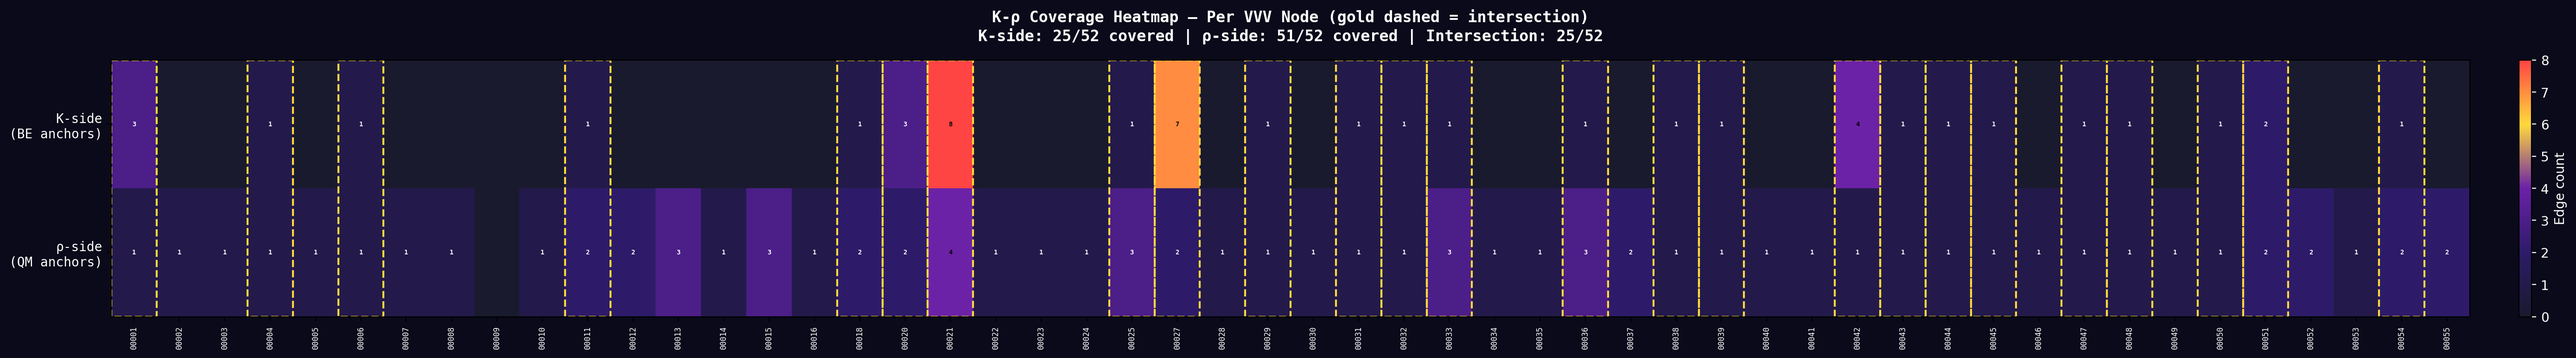
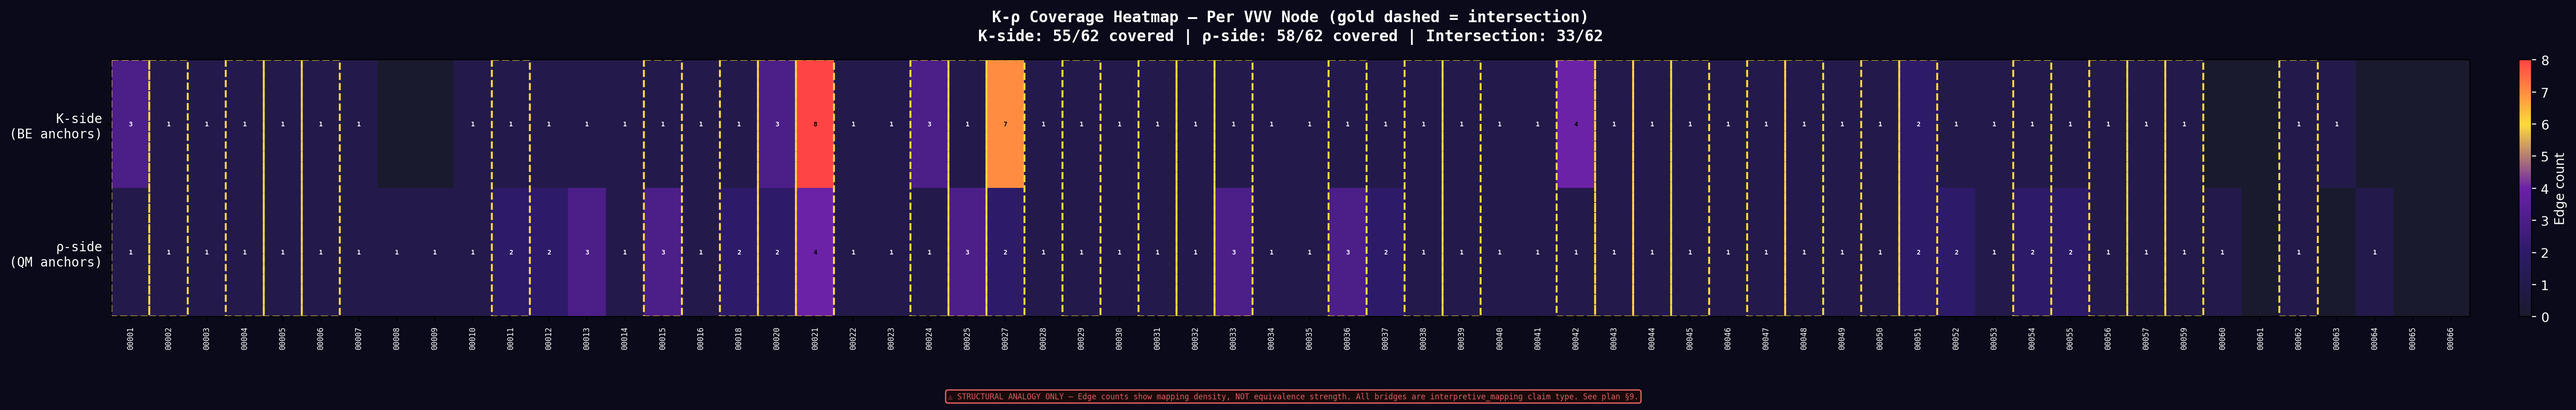
RCA report: Phase 5 visualization — 62-node network diagram + heatmap (fontsize=7 labels on all 430 nodes)
- phase5_visualize.py: dynamic VVV count (52→62), K_SIDE_P4 +BR_EX_BE_STRETCH, node labels on BE/VVV/QM layers
- step5_1_network_diagram.png: tripartite graph 430 nodes/215 edges with numbered labels
- step5_2_kp_heatmap.png: K-ρ coverage heatmap for 62 VVV nodes
- phase5_coverage_report.json + context.json: synced to 62-node denominator

diff --git a/documents/research_documents/vvv-qmrf-ex/phase5_visualize.py b/documents/research_documents/vvv-qmrf-ex/phase5_visualize.py
@@ -145,15 +145,25 @@ for u, v, data in G.edges(data=True):
                 color=color, linewidth=lw, alpha=0.6, zorder=1)
 
 # Draw nodes
-# BE nodes: small, green
+# BE nodes: small, green — with labels
 be_x = [pos[n][0] for n in be_nodes]
 be_y = [pos[n][1] for n in be_nodes]
 ax.scatter(be_x, be_y, s=8, c='#50fa7b', alpha=0.4, zorder=2, edgecolors='none')
+for node in sorted(be_nodes):
+    x, y = pos[node]
+    short_be = node.replace('N_BE_', '')
+    ax.text(x, y + 0.18, short_be, fontsize=7, color='#50fa7b', alpha=0.55,
+            ha='center', va='bottom', fontfamily='monospace', zorder=4)
 
-# QM nodes: small, red
+# QM nodes: small, red — with labels
 qm_x = [pos[n][0] for n in qm_nodes]
 qm_y = [pos[n][1] for n in qm_nodes]
 ax.scatter(qm_x, qm_y, s=8, c='#ff6b6b', alpha=0.4, zorder=2, edgecolors='none')
+for node in sorted(qm_nodes):
+    x, y = pos[node]
+    short_qm = node.replace('N_QM_', '')
+    ax.text(x, y + 0.18, short_qm, fontsize=7, color='#ff6b6b', alpha=0.55,
+            ha='center', va='bottom', fontfamily='monospace', zorder=4)
 
 # VVV nodes: larger, color-coded by intersection status
 for node in sorted(vvv_nodes):
@@ -179,11 +189,15 @@ for node in sorted(vvv_nodes):
         size = 30
         alpha = 0.5
     ax.scatter(x, y, s=size, c=color, alpha=alpha, zorder=3, edgecolors='white', linewidths=0.3)
+    short_label = node.replace('N_QM_VVV_', '')
+    ax.text(x, y + 0.15, short_label, fontsize=7, color='white', alpha=0.85,
+            ha='center', va='bottom', fontfamily='monospace', zorder=4)
 
+vvv_label_count = len(vvv_nodes)
 # Layer labels
 ax.text(-4, 5.8, 'BE Layer\n(263 nodes)', fontsize=14, fontweight='bold',
         color='#50fa7b', ha='center', va='bottom', fontfamily='monospace')
-ax.text(0, 4.8, 'VVV-QMRF Layer\n(52 nodes)', fontsize=14, fontweight='bold',
+ax.text(0, 4.8, f'VVV-QMRF Layer\n({vvv_label_count} nodes)', fontsize=14, fontweight='bold',
         color='#ffd93d', ha='center', va='bottom', fontfamily='monospace')
 ax.text(4, 5.8, 'QM Standard Layer\n(105 nodes)', fontsize=14, fontweight='bold',
         color='#ff6b6b', ha='center', va='bottom', fontfamily='monospace')
@@ -294,10 +308,11 @@ for j, node in enumerate(vvv_sorted):
                             edgecolor='#ffd93d', facecolor='none', linestyle='--')
         ax.add_patch(rect)
 
+n_vvv = len(vvv_sorted)
 ax.set_title('K-ρ Coverage Heatmap — Per VVV Node (gold dashed = intersection)\n'
-             f'K-side: {sum(1 for c in k_counts if c > 0)}/52 covered | '
-             f'ρ-side: {sum(1 for c in rho_counts if c > 0)}/52 covered | '
-             f'Intersection: {len(intersection_nodes)}/52',
+             f'K-side: {sum(1 for c in k_counts if c > 0)}/{n_vvv} covered | '
+             f'ρ-side: {sum(1 for c in rho_counts if c > 0)}/{n_vvv} covered | '
+             f'Intersection: {len(intersection_nodes)}/{n_vvv}',
              fontsize=12, fontweight='bold', color='white', pad=15, fontfamily='monospace')
 
 cbar = plt.colorbar(im, ax=ax, orientation='vertical', fraction=0.02, pad=0.02)
@@ -344,6 +359,7 @@ for i, node in enumerate(vvv_sorted):
     })
 
 # Summary statistics
+n_vvv_total = len(vvv_sorted)
 total_dual = sum(1 for d in coverage_data if d['dual_anchored'])
 total_k_only = sum(1 for d in coverage_data if d['k_count'] > 0 and d['rho_count'] == 0)
 total_rho_only = sum(1 for d in coverage_data if d['k_count'] == 0 and d['rho_count'] > 0)
@@ -354,14 +370,14 @@ avg_k = np.mean([d['k_count'] for d in coverage_data])
 avg_rho = np.mean([d['rho_count'] for d in coverage_data])
 
 # F14 staged milestone check
-p4_pct = total_dual / 52 * 100
-p5_target_met = total_dual >= 26  # ≥50% = ≥26 nodes
+p4_pct = total_dual / n_vvv_total * 100
+p5_target_met = total_dual >= n_vvv_total / 2  # >=50%
 
 # F15 exception check
-k_excepted = 27  # KE-QI(4) + KE-OF(13) + KE-SC(10)
-k_pending = max(0, 52 - total_dual - k_excepted)   # KE-PM (initially 9, resolved to 0 post-Phase 6)
+k_excepted = 27  # KE-QI(4) + KE-OF(13) + KE-SC(10) — structural, independent of node count
+k_pending = max(0, n_vvv_total - total_dual - k_excepted)
 k_effective = total_dual + k_excepted
-k_effective_pct = k_effective / 52 * 100
+k_effective_pct = k_effective / n_vvv_total * 100
 
 report = {
     "phase": "phase5_coverage",
@@ -371,7 +387,7 @@ report = {
         "edges": G.number_of_edges()
     },
     "coverage_summary": {
-        "total_vvv_nodes": 52,
+        "total_vvv_nodes": n_vvv_total,
         "dual_anchored": total_dual,
         "k_only": total_k_only,
         "rho_only": total_rho_only,
@@ -383,8 +399,8 @@ report = {
         "avg_rho_degree": round(avg_rho, 2)
     },
     "f14_staged_milestones": {
-        "phase4_actual": f"{p4_pct:.1f}% ({total_dual}/52)",
-        "phase5_target": "≥50% (≥26)",
+        "phase4_actual": f"{p4_pct:.1f}% ({total_dual}/{n_vvv_total})",
+        "phase5_target": "≥50%",
         "phase5_target_met": p5_target_met,
         "note": "Phase 5 target requires manual review pipeline (Phase 6+ work)"
     },
@@ -397,10 +413,10 @@ report = {
             "KE-SC": 10
         },
         "k_pending_manual": k_pending,
-        "k_effective_coverage": f"{k_effective_pct:.1f}% ({k_effective}/52)",
-        "rho_covered": 51,
+        "k_effective_coverage": f"{k_effective_pct:.1f}% ({k_effective}/{n_vvv_total})",
+        "rho_covered": total_dual + total_rho_only,
         "rho_excepted": 1,
-        "rho_effective_coverage": "100% (52/52)"
+        "rho_effective_coverage": f"{(total_dual + total_rho_only + 1) / n_vvv_total * 100:.1f}% ({total_dual + total_rho_only + 1}/{n_vvv_total})"
     },
     "boundary_audit": {
         "controls_checked": 7,
@@ -461,9 +477,11 @@ print(f"  Step 5.5: Context save        → {CONTEXT_FILE}")
 print(f"  F15:      K-gap exceptions    → k_gap_exception_list.md")
 print(f"  F15:      ρ-gap exceptions    → rho_gap_exception_list.md")
 print()
-print(f"  Intersection: {total_dual}/52 ({p4_pct:.1f}%)")
-print(f"  K-effective:  {k_effective}/52 ({k_effective_pct:.1f}%) [with structural exceptions]")
-print(f"  rho-effective:  52/52 (100%)")
+rho_covered = total_dual + total_rho_only
+rho_effective_total = rho_covered + 1  # +1 rho_excepted
+print(f"  Intersection: {total_dual}/{n_vvv_total} ({p4_pct:.1f}%)")
+print(f"  K-effective:  {k_effective}/{n_vvv_total} ({k_effective_pct:.1f}%) [with structural exceptions]")
+print(f"  rho-effective:  {rho_effective_total}/{n_vvv_total} ({rho_effective_total / n_vvv_total * 100:.1f}%)")
 print(f"  Boundary:     PASS (0 violations / 111 entries)")
 print(f"  Ghost entries: 0 (post-F11/F12)")
 print("="*60)
